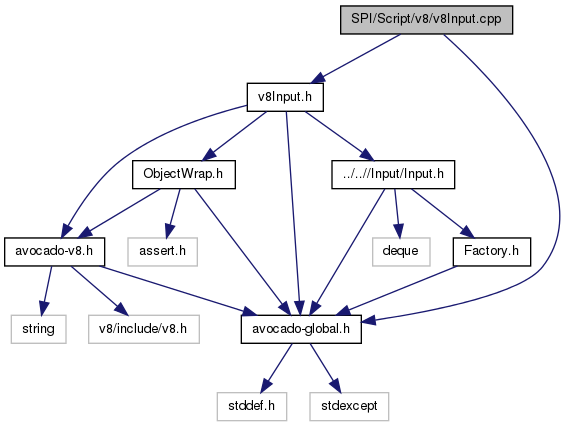
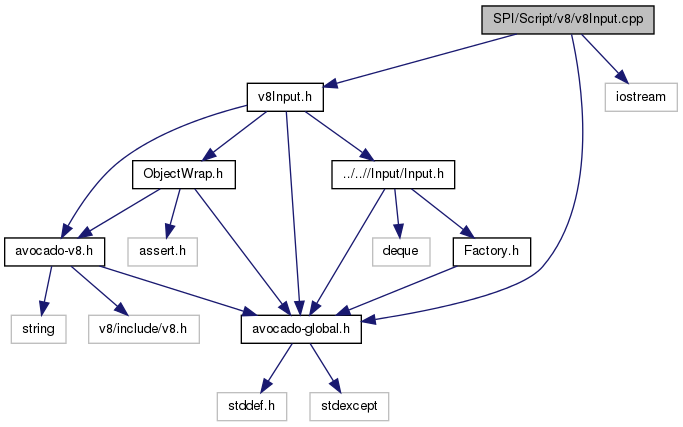
raw:77a5bf0b7a58d09d63cf34d185c0d4c897e0dc6c

diff --git a/engine/main/native/Initialize.coffee.html b/engine/main/native/Initialize.coffee.html
@@ -1,18 +1,18 @@
-<!DOCTYPE html><html><head><title>Initialize.coffee</title><meta http-equiv="Content-Type" content="text/html" charset="UTF-8"><link rel="stylesheet" media="all" href="../../../docco.css"></head><body><div id="container"><div id="background"></div><div id="jump_to">Jump To &hellip;<div id="jump_wrapper"><div id="jump_page"><a href="../../../index.html" class="source"><span class="file_name">README</span></a><a href="../../../engine/core/CoreService.coffee.html" class="source "><span class="base_path">engine / core / </span><span class="file_name">CoreService.coffee</span></a><a href="../../../engine/core/Extension/String.coffee.html" class="source "><span class="base_path">engine / core / Extension / </span><span class="file_name">String.coffee</span></a><a href="../../../engine/core/Extension/Vector.coffee.html" class="source "><span class="base_path">engine / core / Extension / </span><span class="file_name">Vector.coffee</span></a><a href="../../../engine/core/Graphics/Image.coffee.html" class="source "><span class="base_path">engine / core / Graphics / </span><span class="file_name">Image.coffee</span></a><a href="../../../engine/core/Graphics/Window.coffee.html" class="source "><span class="base_path">engine / core / Graphics / </span><span class="file_name">Window.coffee</span></a><a href="../../../engine/core/Input/Input.coffee.html" class="source "><span class="base_path">engine / core / Input / </span><span class="file_name">Input.coffee</span></a><a href="../../../engine/core/Main.coffee.html" class="source "><span class="base_path">engine / core / </span><span class="file_name">Main.coffee</span></a><a href="../../../engine/core/Sound/Music.coffee.html" class="source "><span class="base_path">engine / core / Sound / </span><span class="file_name">Music.coffee</span></a><a href="../../../engine/core/Sound/Sample.coffee.html" class="source "><span class="base_path">engine / core / Sound / </span><span class="file_name">Sample.coffee</span></a><a href="../../../engine/core/State/AbstractState.coffee.html" class="source "><span class="base_path">engine / core / State / </span><span class="file_name">AbstractState.coffee</span></a><a href="../../../engine/core/State/Initial.coffee.html" class="source "><span class="base_path">engine / core / State / </span><span class="file_name">Initial.coffee</span></a><a href="../../../engine/core/Timing/Counter.coffee.html" class="source "><span class="base_path">engine / core / Timing / </span><span class="file_name">Counter.coffee</span></a><a href="../../../engine/core/Timing/Cps.coffee.html" class="source "><span class="base_path">engine / core / Timing / </span><span class="file_name">Cps.coffee</span></a><a href="../../../engine/core/Timing/Ticker.coffee.html" class="source "><span class="base_path">engine / core / Timing / </span><span class="file_name">Ticker.coffee</span></a><a href="../../../engine/core/Timing/TimingService.coffee.html" class="source "><span class="base_path">engine / core / Timing / </span><span class="file_name">TimingService.coffee</span></a><a href="../../../engine/core/Utility/EventEmitter.coffee.html" class="source "><span class="base_path">engine / core / Utility / </span><span class="file_name">EventEmitter.coffee</span></a><a href="../../../engine/core/Utility/Logger.coffee.html" class="source "><span class="base_path">engine / core / Utility / </span><span class="file_name">Logger.coffee</span></a><a href="../../../engine/core/Utility/Mixin.coffee.html" class="source "><span class="base_path">engine / core / Utility / </span><span class="file_name">Mixin.coffee</span></a><a href="../../../engine/core/Utility/Transition.coffee.html" class="source "><span class="base_path">engine / core / Utility / </span><span class="file_name">Transition.coffee</span></a><a href="../../../engine/core/Utility/underscore-min.js.html" class="source "><span class="base_path">engine / core / Utility / </span><span class="file_name">underscore-min.js</span></a><a href="../../../engine/core/Utility/upon.js.html" class="source "><span class="base_path">engine / core / Utility / </span><span class="file_name">upon.js</span></a><a href="../../../engine/main/native/Finish.coffee.html" class="source "><span class="base_path">engine / main / native / </span><span class="file_name">Finish.coffee</span></a><a href="../../../engine/main/native/Initialize.coffee.html" class="source selected"><span class="base_path">engine / main / native / </span><span class="file_name">Initialize.coffee</span></a><a href="../../../engine/main/native/Main.coffee.html" class="source "><span class="base_path">engine / main / native / </span><span class="file_name">Main.coffee</span></a></div></div></div><table cellpadding="0" cellspacing="0"><thead><tr><th class="docs"><h1>Initialize.coffee</h1><div class="filepath">engine/main/native/</div></th><th class="code"></th></tr></thead><tbody><tr id="section-1"><td class="docs"><div class="pilwrap"><a href="#section-1" class="pilcrow">&#182;</a></div><p>Use SDL CoreService for now.</p>
+<!DOCTYPE html><html><head><title>Initialize.coffee</title><meta http-equiv="Content-Type" content="text/html" charset="UTF-8"><link rel="stylesheet" media="all" href="../../../docco.css"></head><body><div id="container"><div id="background"></div><div id="jump_to">Jump To &hellip;<div id="jump_wrapper"><div id="jump_page"><a href="../../../index.html" class="source"><span class="file_name">README</span></a><a href="../../../engine/core/CoreService.coffee.html" class="source "><span class="base_path">engine / core / </span><span class="file_name">CoreService.coffee</span></a><a href="../../../engine/core/Extension/String.coffee.html" class="source "><span class="base_path">engine / core / Extension / </span><span class="file_name">String.coffee</span></a><a href="../../../engine/core/Extension/Vector.coffee.html" class="source "><span class="base_path">engine / core / Extension / </span><span class="file_name">Vector.coffee</span></a><a href="../../../engine/core/Graphics/Image.coffee.html" class="source "><span class="base_path">engine / core / Graphics / </span><span class="file_name">Image.coffee</span></a><a href="../../../engine/core/Graphics/Window.coffee.html" class="source "><span class="base_path">engine / core / Graphics / </span><span class="file_name">Window.coffee</span></a><a href="../../../engine/core/Input/Input.coffee.html" class="source "><span class="base_path">engine / core / Input / </span><span class="file_name">Input.coffee</span></a><a href="../../../engine/core/Main.coffee.html" class="source "><span class="base_path">engine / core / </span><span class="file_name">Main.coffee</span></a><a href="../../../engine/core/Sound/Music.coffee.html" class="source "><span class="base_path">engine / core / Sound / </span><span class="file_name">Music.coffee</span></a><a href="../../../engine/core/Sound/Sample.coffee.html" class="source "><span class="base_path">engine / core / Sound / </span><span class="file_name">Sample.coffee</span></a><a href="../../../engine/core/State/AbstractState.coffee.html" class="source "><span class="base_path">engine / core / State / </span><span class="file_name">AbstractState.coffee</span></a><a href="../../../engine/core/State/Initial.coffee.html" class="source "><span class="base_path">engine / core / State / </span><span class="file_name">Initial.coffee</span></a><a href="../../../engine/core/Timing/Counter.coffee.html" class="source "><span class="base_path">engine / core / Timing / </span><span class="file_name">Counter.coffee</span></a><a href="../../../engine/core/Timing/Cps.coffee.html" class="source "><span class="base_path">engine / core / Timing / </span><span class="file_name">Cps.coffee</span></a><a href="../../../engine/core/Timing/Ticker.coffee.html" class="source "><span class="base_path">engine / core / Timing / </span><span class="file_name">Ticker.coffee</span></a><a href="../../../engine/core/Timing/TimingService.coffee.html" class="source "><span class="base_path">engine / core / Timing / </span><span class="file_name">TimingService.coffee</span></a><a href="../../../engine/core/Utility/EventEmitter.coffee.html" class="source "><span class="base_path">engine / core / Utility / </span><span class="file_name">EventEmitter.coffee</span></a><a href="../../../engine/core/Utility/Logger.coffee.html" class="source "><span class="base_path">engine / core / Utility / </span><span class="file_name">Logger.coffee</span></a><a href="../../../engine/core/Utility/Mixin.coffee.html" class="source "><span class="base_path">engine / core / Utility / </span><span class="file_name">Mixin.coffee</span></a><a href="../../../engine/core/Utility/Transition.coffee.html" class="source "><span class="base_path">engine / core / Utility / </span><span class="file_name">Transition.coffee</span></a><a href="../../../engine/core/Utility/underscore-min.js.html" class="source "><span class="base_path">engine / core / Utility / </span><span class="file_name">underscore-min.js</span></a><a href="../../../engine/core/Utility/upon.js.html" class="source "><span class="base_path">engine / core / Utility / </span><span class="file_name">upon.js</span></a><a href="../../../engine/main/native/Finish.coffee.html" class="source "><span class="base_path">engine / main / native / </span><span class="file_name">Finish.coffee</span></a><a href="../../../engine/main/native/Initialize.coffee.html" class="source selected"><span class="base_path">engine / main / native / </span><span class="file_name">Initialize.coffee</span></a><a href="../../../engine/main/native/Main.coffee.html" class="source "><span class="base_path">engine / main / native / </span><span class="file_name">Main.coffee</span></a></div></div></div><table cellpadding="0" cellspacing="0"><thead><tr><th class="docs"><h1>Initialize.coffee</h1><div class="filepath">engine/main/native/</div></th><th class="code"></th></tr></thead><tbody><tr id="section-1"><td class="docs"><div class="pilwrap"><a href="#section-1" class="pilcrow">&#182;</a></div><h1>#</h1>
+</td><td class="code"><div class="highlight"><pre></pre></div></td></tr><tr id="section-2"><td class="docs"><div class="pilwrap"><a href="#section-2" class="pilcrow">&#182;</a></div><p>Use SDL CoreService for now.</p>
 </td><td class="code"><div class="highlight"><pre><span class="nx">avo</span><span class="p">.</span><span class="nx">CoreService</span><span class="p">.</span><span class="nx">implementSpi</span> <span class="s1">&#39;sdl&#39;</span>
-<span class="nv">avo.coreService = </span><span class="k">new</span> <span class="nx">avo</span><span class="p">.</span><span class="nx">CoreService</span><span class="p">()</span></pre></div></td></tr><tr id="section-2"><td class="docs"><div class="pilwrap"><a href="#section-2" class="pilcrow">&#182;</a></div><p>Use SDL GraphicsService for now.</p>
+<span class="nv">avo.coreService = </span><span class="k">new</span> <span class="nx">avo</span><span class="p">.</span><span class="nx">CoreService</span><span class="p">()</span></pre></div></td></tr><tr id="section-3"><td class="docs"><div class="pilwrap"><a href="#section-3" class="pilcrow">&#182;</a></div><p>Use SDL GraphicsService for now.</p>
 </td><td class="code"><div class="highlight"><pre><span class="nx">avo</span><span class="p">.</span><span class="nx">GraphicsService</span><span class="p">.</span><span class="nx">implementSpi</span> <span class="s1">&#39;sdl&#39;</span>
-<span class="nv">avo.graphicsService = </span><span class="k">new</span> <span class="nx">avo</span><span class="p">.</span><span class="nx">GraphicsService</span><span class="p">()</span></pre></div></td></tr><tr id="section-3"><td class="docs"><div class="pilwrap"><a href="#section-3" class="pilcrow">&#182;</a></div><p>Use SDL InputService for now.</p>
+<span class="nv">avo.graphicsService = </span><span class="k">new</span> <span class="nx">avo</span><span class="p">.</span><span class="nx">GraphicsService</span><span class="p">()</span></pre></div></td></tr><tr id="section-4"><td class="docs"><div class="pilwrap"><a href="#section-4" class="pilcrow">&#182;</a></div><p>Use SDL InputService for now.</p>
 </td><td class="code"><div class="highlight"><pre><span class="nx">avo</span><span class="p">.</span><span class="nx">InputService</span><span class="p">.</span><span class="nx">implementSpi</span> <span class="s1">&#39;sdl&#39;</span>
-<span class="nv">avo.inputService = </span><span class="k">new</span> <span class="nx">avo</span><span class="p">.</span><span class="nx">InputService</span><span class="p">()</span></pre></div></td></tr><tr id="section-4"><td class="docs"><div class="pilwrap"><a href="#section-4" class="pilcrow">&#182;</a></div><p>Use SFML TimingService for now.</p>
+<span class="nv">avo.inputService = </span><span class="k">new</span> <span class="nx">avo</span><span class="p">.</span><span class="nx">InputService</span><span class="p">()</span></pre></div></td></tr><tr id="section-5"><td class="docs"><div class="pilwrap"><a href="#section-5" class="pilcrow">&#182;</a></div><p>Use SFML TimingService for now.</p>
 </td><td class="code"><div class="highlight"><pre><span class="nx">avo</span><span class="p">.</span><span class="nx">TimingService</span><span class="p">.</span><span class="nx">implementSpi</span> <span class="s1">&#39;sfml&#39;</span>
-<span class="nv">avo.timingService = </span><span class="k">new</span> <span class="nx">avo</span><span class="p">.</span><span class="nx">TimingService</span><span class="p">()</span></pre></div></td></tr><tr id="section-5"><td class="docs"><div class="pilwrap"><a href="#section-5" class="pilcrow">&#182;</a></div><p>Use SFML SoundService for now.</p>
+<span class="nv">avo.timingService = </span><span class="k">new</span> <span class="nx">avo</span><span class="p">.</span><span class="nx">TimingService</span><span class="p">()</span></pre></div></td></tr><tr id="section-6"><td class="docs"><div class="pilwrap"><a href="#section-6" class="pilcrow">&#182;</a></div><p>Use SFML SoundService for now.</p>
 </td><td class="code"><div class="highlight"><pre><span class="nx">avo</span><span class="p">.</span><span class="nx">SoundService</span><span class="p">.</span><span class="nx">implementSpi</span> <span class="s1">&#39;sfml&#39;</span>
-<span class="nv">avo.soundService = </span><span class="k">new</span> <span class="nx">avo</span><span class="p">.</span><span class="nx">SoundService</span><span class="p">()</span></pre></div></td></tr><tr id="section-6"><td class="docs"><div class="pilwrap"><a href="#section-6" class="pilcrow">&#182;</a></div><p>Shoot for 60 FPS input and render.</p>
+<span class="nv">avo.soundService = </span><span class="k">new</span> <span class="nx">avo</span><span class="p">.</span><span class="nx">SoundService</span><span class="p">()</span></pre></div></td></tr><tr id="section-7"><td class="docs"><div class="pilwrap"><a href="#section-7" class="pilcrow">&#182;</a></div><p>Shoot for 60 FPS input and render.</p>
 </td><td class="code"><div class="highlight"><pre><span class="nv">avo.ticksPerSecondTarget = </span><span class="mi">60</span>
-<span class="nv">avo.rendersPerSecondTarget = </span><span class="mi">60</span>
-
-<span class="nv">handles = </span><span class="p">{}</span>
+<span class="nv">avo.rendersPerSecondTarget = </span><span class="mi">60</span></pre></div></td></tr><tr id="section-8"><td class="docs"><div class="pilwrap"><a href="#section-8" class="pilcrow">&#182;</a></div><h1>#</h1>
+</td><td class="code"><div class="highlight"><pre><span class="nv">handles = </span><span class="p">{}</span>
 <span class="nv">handleIndex = </span><span class="mi">1</span>
 
 <span class="nv">handleFreeIds = </span><span class="p">{}</span>

diff --git a/engine/core/State/Initial.coffee.html b/engine/core/State/Initial.coffee.html
@@ -4,6 +4,10 @@
 state needs here. This is the Initial state, so we can also set up
 things specific to our game.</p>
 </td><td class="code"><div class="highlight"><pre>  <span class="nv">initialize: </span><span class="o">-&gt;</span>
+  
+    <span class="nv">d = </span><span class="nx">upon</span><span class="p">.</span><span class="nx">defer</span><span class="p">()</span>
+    <span class="nx">d</span><span class="p">.</span><span class="nx">resolve</span><span class="p">()</span>
+    <span class="k">return</span> <span class="nx">d</span>
     </pre></div></td></tr><tr id="section-3"><td class="docs"><div class="pilwrap"><a href="#section-3" class="pilcrow">&#182;</a></div><p>Let's move around the avocado! In order to do that, we'll need to
 keep track of its x, y location.</p>
 </td><td class="code"><div class="highlight"><pre>    <span class="p">[</span><span class="nx">@x</span><span class="p">,</span> <span class="nx">@y</span><span class="p">]</span> <span class="o">=</span> <span class="p">[</span><span class="mi">0</span><span class="p">,</span> <span class="mi">0</span><span class="p">]</span>
@@ -41,7 +45,7 @@ as initialize requires. Elegant!</p>
   </pre></div></td></tr><tr id="section-10"><td class="docs"><div class="pilwrap"><a href="#section-10" class="pilcrow">&#182;</a></div><p>Called repeatedly while this state is loaded. You can do things like
 update your world here. We'll move the avocado based on movement input.</p>
 </td><td class="code"><div class="highlight"><pre>  <span class="nv">tick: </span><span class="o">-&gt;</span>
-    </pre></div></td></tr><tr id="section-11"><td class="docs"><div class="pilwrap"><a href="#section-11" class="pilcrow">&#182;</a></div><p>Move it 500px a second based on player 0's movement.</p>
+    <span class="k">return</span></pre></div></td></tr><tr id="section-11"><td class="docs"><div class="pilwrap"><a href="#section-11" class="pilcrow">&#182;</a></div><p>Move it 500px a second based on player 0's movement.</p>
 </td><td class="code"><div class="highlight"><pre>    <span class="p">[</span><span class="nx">@x</span><span class="p">,</span> <span class="nx">@y</span><span class="p">]</span> <span class="o">=</span> <span class="nx">avo</span><span class="p">.</span><span class="nx">Vector</span><span class="p">.</span><span class="nx">add</span><span class="p">(</span>
       <span class="p">[</span><span class="nx">@x</span><span class="p">,</span> <span class="nx">@y</span><span class="p">]</span>
       <span class="nx">avo</span><span class="p">.</span><span class="nx">Vector</span><span class="p">.</span><span class="nx">scale</span> <span class="nx">avo</span><span class="p">.</span><span class="nx">Input</span><span class="p">.</span><span class="nx">playerTickMovement</span><span class="p">(</span><span class="mi">0</span><span class="p">),</span> <span class="mi">500</span>
@@ -49,14 +53,14 @@ update your world here. We'll move the avocado based on movement input.</p>
   </pre></div></td></tr><tr id="section-12"><td class="docs"><div class="pilwrap"><a href="#section-12" class="pilcrow">&#182;</a></div><p>Called repeatedly while this state is loaded. You can render all of
 your pretty pictures here!</p>
 </td><td class="code"><div class="highlight"><pre>  <span class="nv">render: </span><span class="nf">(buffer) -&gt;</span>
-    </pre></div></td></tr><tr id="section-13"><td class="docs"><div class="pilwrap"><a href="#section-13" class="pilcrow">&#182;</a></div><p>Fill the screen with white.</p>
+    <span class="k">return</span></pre></div></td></tr><tr id="section-13"><td class="docs"><div class="pilwrap"><a href="#section-13" class="pilcrow">&#182;</a></div><p>Fill the screen with white.</p>
 </td><td class="code"><div class="highlight"><pre>    <span class="nx">buffer</span><span class="p">.</span><span class="nx">fill</span> <span class="mi">255</span><span class="p">,</span> <span class="mi">255</span><span class="p">,</span> <span class="mi">255</span>
     </pre></div></td></tr><tr id="section-14"><td class="docs"><div class="pilwrap"><a href="#section-14" class="pilcrow">&#182;</a></div><p>Show the avocado at its current x, y location.</p>
 </td><td class="code"><div class="highlight"><pre>    <span class="nx">@avocado</span><span class="p">.</span><span class="nx">render</span> <span class="p">[</span><span class="nx">@x</span><span class="p">,</span> <span class="nx">@y</span><span class="p">],</span> <span class="nx">buffer</span>
     </pre></div></td></tr><tr id="section-15"><td class="docs"><div class="pilwrap"><a href="#section-15" class="pilcrow">&#182;</a></div><p>Called when another state is loaded. This gives you a chance to clean
 up resources and event handlers.</p>
 </td><td class="code"><div class="highlight"><pre>  <span class="nv">leave: </span><span class="nf">(nextStateName) -&gt;</span>
-    </pre></div></td></tr><tr id="section-16"><td class="docs"><div class="pilwrap"><a href="#section-16" class="pilcrow">&#182;</a></div><p>Remove our user input event handler(s).</p>
+    <span class="k">return</span></pre></div></td></tr><tr id="section-16"><td class="docs"><div class="pilwrap"><a href="#section-16" class="pilcrow">&#182;</a></div><p>Remove our user input event handler(s).</p>
 </td><td class="code"><div class="highlight"><pre>    <span class="nx">avo</span><span class="p">.</span><span class="nx">Input</span><span class="p">.</span><span class="kc">off</span> <span class="s1">&#39;.InitialState&#39;</span>
 
 </pre></div></td></tr></tbody></table><div id="projectname"><a href="../../../index.html">Avocado</a></div></div></body></html>

diff --git a/index.html b/index.html
@@ -127,14 +127,14 @@
     </dd>
 </dl>
 <h3>Version</h3><p>1.0.0</p><h3>Author</h3><p><span class="gravatar"><img src="http://www.gravatar.com/avatar/4e26f0fdc3f2c07b8abf1c9bd95c23fb"/><span>cha0s &lt;cha0s@therealcha0s.net&gt;</span></span></p><h3>Dependencies </h3><ul></ul><p><h3>Stats</h3><pre class="code_stats">
-http://cloc.sourceforge.net v 1.55  T=0.5 s (48.0 files/s, 4388.0 lines/s)
+http://cloc.sourceforge.net v 1.55  T=0.5 s (48.0 files/s, 4404.0 lines/s)
 -------------------------------------------------------------------------------
 Language                     files          blank        comment           code
 -------------------------------------------------------------------------------
-CoffeeScript                    22            302            418            742
+CoffeeScript                    22            302            420            748
 Javascript                       2            106            353            273
 -------------------------------------------------------------------------------
-SUM:                            24            408            771           1015
+SUM:                            24            408            773           1021
 -------------------------------------------------------------------------------
 </pre></p></td><td id="content" class="code"><p><img src="https://raw.github.com/cha0s/avocado/master/resource/image/avocado.png" alt="avocado logo" title="" /></p>
 

diff --git a/cpp/v8Input_8cpp.html b/cpp/v8Input_8cpp.html
@@ -94,6 +94,7 @@ var searchBox = new SearchBox("searchBox", "search",false,'Search');
 <div class="contents">
 <div class="textblock"><code>#include &quot;<a class="el" href="avocado-global_8h.html">avocado-global.h</a>&quot;</code><br/>
 <code>#include &quot;<a class="el" href="v8Input_8h.html">v8Input.h</a>&quot;</code><br/>
+<code>#include &lt;iostream&gt;</code><br/>
 </div><div class="textblock"><div class="dynheader">
 Include dependency graph for v8Input.cpp:</div>
 <div class="dyncontent">
